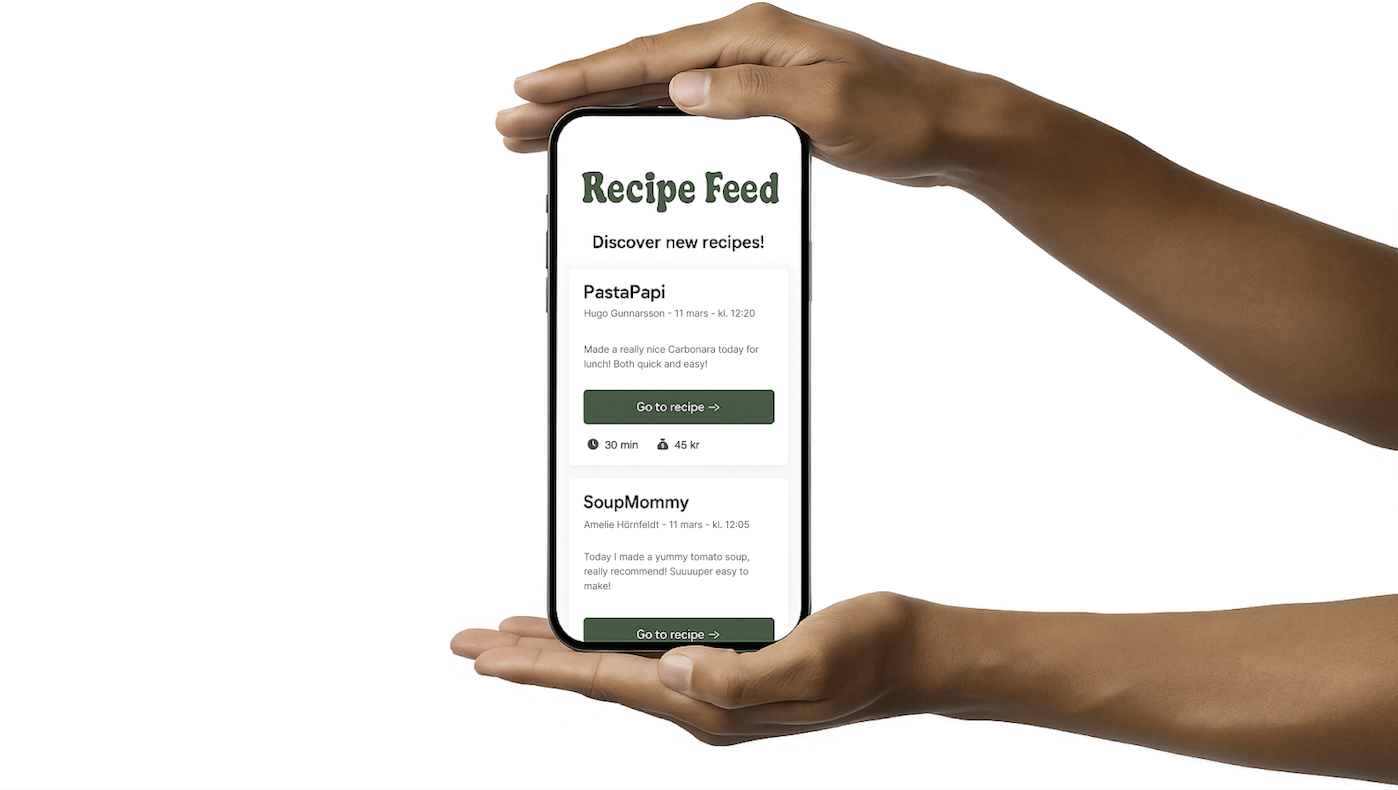
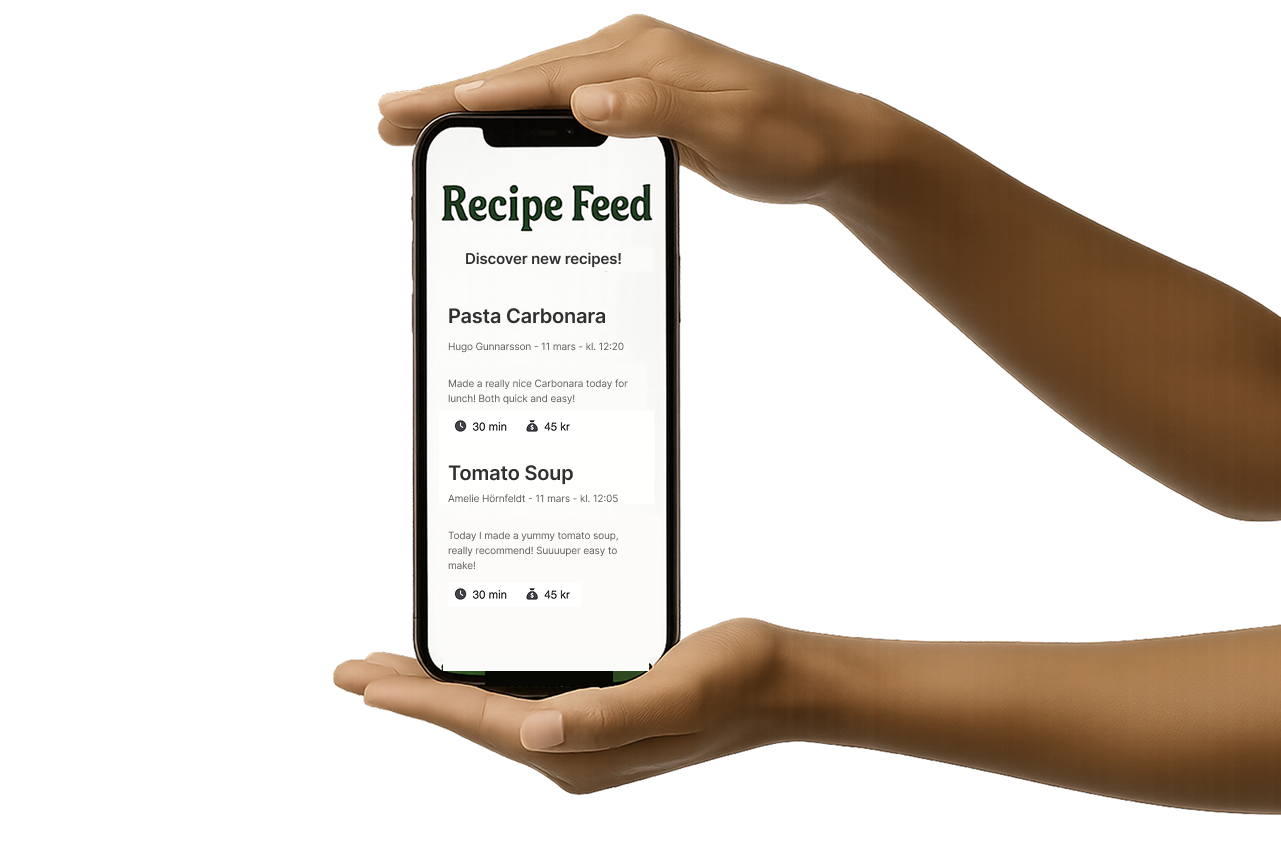
ännu mer fix med design, ej helt klart

Changed region(s): [[0.2498, 0.0, 1.0, 1.0]]

diff --git a/WhatsCookinClientProject/src/main/webapp/css/home.css b/WhatsCookinClientProject/src/main/webapp/css/home.css
@@ -1,33 +1,44 @@
 /* === Home Page Styles === */
+body {
+	overflow-x: hidden;
+	margin: 0;
+	padding: 0;
+}
+
+.image-wrapper {
+  width: 100%;
+  display: flex;
+  justify-content: flex-end;  /* Push image to the right */
+  overflow-x: hidden;         /* Prevent weird scroll */
+}
+
 .hands-img {
-  width: 100%; 
+  max-width: 100%;
+  height: auto;
+  object-fit: contain;
 }
 
 .page-container {
   display: flex;
   flex-direction: column;
   min-height: 100vh; /* stretch to viewport if needed */
-  min-width: 100vh;
-}
-
-.home-content {
-	box-shadow: inset 0 4px 8px rgba(0, 0, 0, 0.15); /* subtle shadow below */
-  min-height: 100vh;
+  width: 100vw;
+  box-sizing: border-box;
+  margin: 0;
+  padding: 0;
 }
 	
 #title-home {
-	font-size: 4em;
-	padding: 30px 0px 10px, 0px;
-	color: #2d4c3f;
-	font-family: 'Moo Lah Lah';
+	font-size: 10em;
+	color: #fbe984;
+	font-family: 'Archivo Black';
 	text-align: center;
 	margin: 0;
-	text-shadow: 4px 4px 4px rgba(0, 0, 0, 0.3);
 }
 
 #slogan {
 	font-size: 1.6em;
-	color: #2d4c3f;
+	color: #fbe984;
 	font-family: 'Inter';
 	text-align: center;
 	margin: 0;
@@ -35,11 +46,55 @@
 	font-weight: 600;
 }
 
+.home-content {
+	margin-top: 50px;
+}
+
 .layout {
 	display: flex;
 	flex: 1;
-	background-color: #f8f8f8;
+	background-color: #e65a33;
 }
+
+.split-section {
+  display: flex;
+  flex-wrap: wrap;
+  justify-content: space-between;
+  background-color: #e65a33; /* your orange background */
+  padding: 4rem 2rem;
+  gap: 2rem;
+}
+
+.left-column {
+  flex: 1;
+  min-width: 250px;
+  max-width: 40%;
+}
+
+.right-column {
+  flex: 1;
+  min-width: 250px;
+  max-width: 55%;  
+  padding-left: 2rem;
+}
+
+.split-section h2 {
+  color: #fbe984; /* your yellow font */
+  font-family: 'Archivo Black', sans-serif;
+  font-size: 3rem;
+  line-height: 1.2;
+  margin: 0;
+}
+
+.split-section p {
+  color: #fbe984;
+  font-family: 'Archivo Black', sans-serif;
+  font-size: 1.2rem;
+  line-height: 1.6;
+  margin: 0;
+  text-align: right;
+}
+
 
 .stat-box {
   padding: 1rem;

diff --git a/WhatsCookinClientProject/src/main/webapp/css/header.css b/WhatsCookinClientProject/src/main/webapp/css/header.css
@@ -1,43 +1,12 @@
-/*.header {
-  width: 100%;
-  background-color: #d46242;
-  clear: both;
-  height: 60px; 
-}
-
-.header-content {
-  max-width: 1000px;
-  display: flex;
-  flex-direction: column;
-}
-
-/*
-.logo-img {
-  width: 60px;     
-  height: 60px;     
-  display: block;
-  align-items: left;
-} 
-*/
-
-/*
-#logo-header {
-	font-size: 1rem;
-	font-family: 'Playfair Display';
-	text-align: left;
-	color: #fbe984;
-} */
-
 body {
   margin: 0;
   font-family: 'Helvetica Neue', sans-serif;
-  background-color: #d46242;
+  background-color: #e65a33;
 }
 
 .site-header {
-  background-color: #d46242;
+  background-color: #e65a33;
   padding: 10px 60px;
-  border-bottom: 1px solid #eee;
   position: sticky;
   top: 0;
   z-index: 1000;
@@ -47,15 +16,16 @@ body {
   display: flex;
   justify-content: space-between;
   align-items: center;
-  max-width: 1200px;
+  max-width: 1450px;
   margin: 0 auto;
 }
 
-.logo {
+.logo a {
   font-size: 2.5rem;
   color: #fbe984;
   font-family: 'Moo Lah Lah';
   letter-spacing: 0.3rem;
+  text-decoration: none;
 }
 
 .nav-links {

diff --git a/WhatsCookinClientProject/src/main/webapp/css/common.css b/WhatsCookinClientProject/src/main/webapp/css/common.css
@@ -12,11 +12,11 @@ body , html {
   background-color: #f9f9f9;
   border-bottom: none;
   margin-bottom: 0;
+  overflow-x: hidden;
 }
 
 .layout {
   display: flex;
   align-items: flex-start;
-  width: 100vw;
   align-items: stretch;
 }
